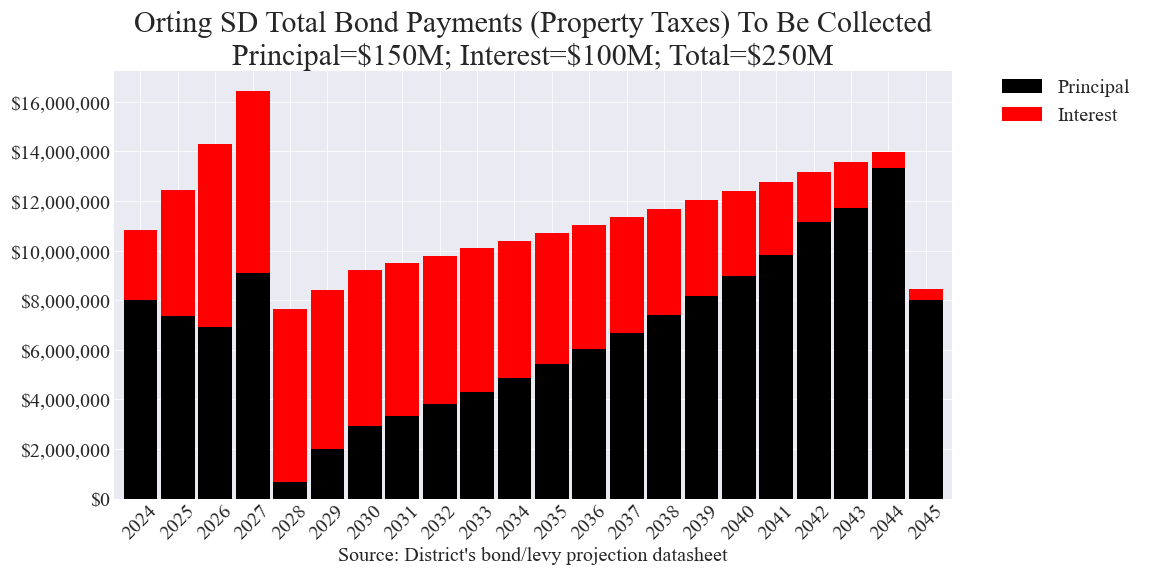
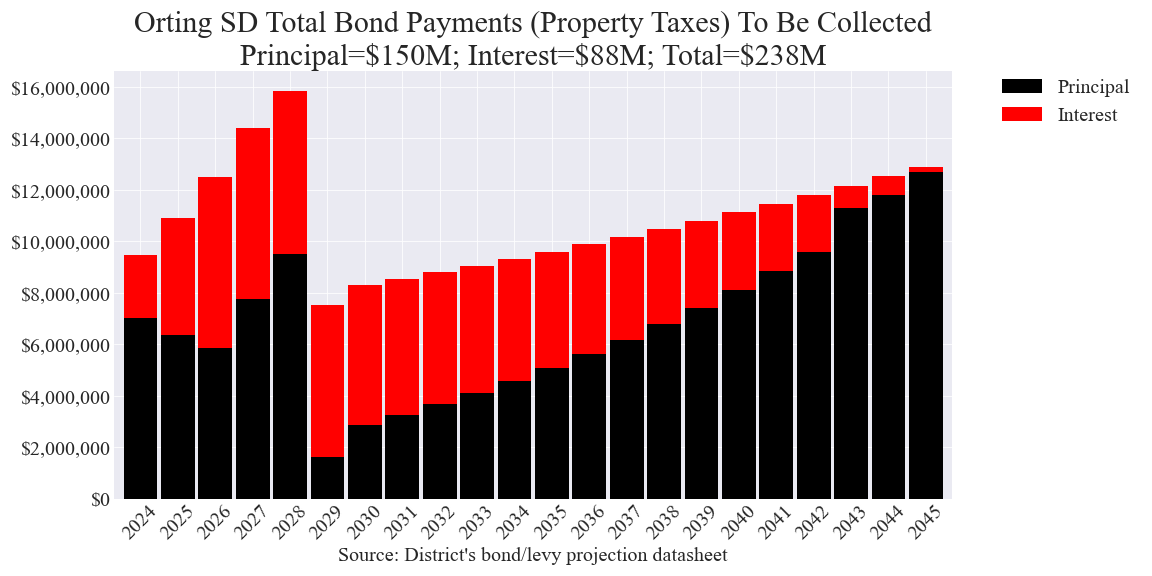
Added Orting

diff --git a/_includes/cost_estimates/20230425/Orting_20230425_Enhanced.html b/_includes/cost_estimates/20230425/Orting_20230425_Enhanced.html
@@ -16,7 +16,7 @@
 	sampleParcelAVMin = 100000;
 	sampleParcelAVMax = 2000000;
 	totalBondPrincipal = 150000000;
-	totalBondInterest = 100080000;
+	totalBondInterest = 87583000;
 	totalBondCost = totalBondPrincipal + totalBondInterest;
 	sampleParcelPOF = sampleParcelAV / totalBondAV;
 	totalBondCostParcel = 0;
@@ -37,28 +37,28 @@
 		data.addColumn('number', 'Interest + Fees');
 
 		data.addRows([
-			['2024', 8016028.0, 2799972.0],
-			['2025', 7375953.0, 5051047.0],
-			['2026', 6932274.0, 7352726.0],
-			['2027', 9075472.0, 7346528.0],
-			['2028', 684443.0, 6947557.0],
-			['2029', 1985453.0, 6406547.0],
-			['2030', 2921906.0, 6307094.0],
-			['2031', 3349379.0, 6157621.0],
-			['2032', 3817832.0, 5977168.0],
-			['2033', 4314948.0, 5771052.0],
-			['2034', 4850196.0, 5537804.0],
-			['2035', 5424888.0, 5275112.0],
-			['2036', 6040918.0, 4981082.0],
-			['2037', 6695662.0, 4653338.0],
-			['2038', 7398197.0, 4289803.0],
-			['2039', 8153249.0, 3887751.0],
-			['2040', 8958369.0, 3444631.0],
-			['2041', 9816752.0, 2957248.0],
-			['2042', 11130988.0, 2023012.0],
-			['2043', 11698860.0, 1852140.0],
-			['2044', 13332827.0, 626173.0],
-			['2045', 8025406.0, 434594.0],
+			['2024', 7003025, 2454975],
+			['2025', 6369897, 4521103],
+			['2026', 5865896, 6654104],
+			['2027', 7745902, 6651098],
+			['2028', 9502534, 6333466],
+			['2029', 1617023, 5915977],
+			['2030', 2879186, 5405814],
+			['2031', 3261904, 5273096],
+			['2032', 3674049, 5116951],
+			['2033', 4109652, 4940348],
+			['2034', 4580184, 4742816],
+			['2035', 5079585, 4522415],
+			['2036', 5612020, 4277980],
+			['2037', 6180390, 4007610],
+			['2038', 6779440, 3709560],
+			['2039', 7425721, 3382279],
+			['2040', 8108184, 3023816],
+			['2041', 8830742, 2632258],
+			['2042', 9600543, 2205457],
+			['2043', 11280553, 879447],
+			['2044', 11788848, 738152],
+			['2045', 12704722, 194278],
 
 		]);
 

diff --git a/pagesManual/LeviesReport/report_levies_20230425.md b/pagesManual/LeviesReport/report_levies_20230425.md
@@ -55,6 +55,8 @@ ___
 
 ## Taxpayer cost impact estimate calculators for the bonds
 
+[Calculator for the Orting SD's Bond Measure](calculator_orting_20230425_enhanced){:target="_blank" rel="noopener"}
+
 [Calculator for the South Whidbey SD's Bond Measure](calculator_south_whidbey_20230425_enhanced){:target="_blank" rel="noopener"}
 
 [Calculator for the Steilacoom SD's Bond Measure](calculator_steilacoom_20230425_enhanced){:target="_blank" rel="noopener"}

diff --git a/pagesManual/LeviesReport/20230425/calculator_orting_20230425_enhanced.md b/pagesManual/LeviesReport/20230425/calculator_orting_20230425_enhanced.md
@@ -1,0 +1,13 @@
+---
+layout: page
+title: Calculator
+permalink: calculator_orting_20230425_enhanced
+---
+
+___
+
+{% include cost_estimates/20230425/Orting_20230425_Enhanced.html %}
+
+___
+
+
